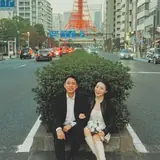
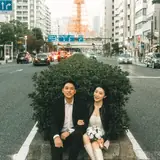
fix(atlas): revert 7 mis-added travel Tokyo shots; apply edited Tokyo wedding photos instead
- revert images/2. Tokyo Tokyo_25-31 (travel-tokyo back to 20, total 164)
- wedding-tokyo: replace WS_Tokyo_01/04/05/06 with edited webp (DSC02229/02230/02270/02436)
- wedding-tokyo: add WS_Tokyo_08/09/10 (DSC02240/02308/02400) - 10 photos
- wedding-tokyo representative -> WS_Tokyo_05.webp; atlas-data.js?v=20261117-v10

diff --git a/tests/atlas-browser.js b/tests/atlas-browser.js
@@ -47,12 +47,12 @@ async function run() {
       check(win.scrollY === 0, 'no initial automatic page scroll');
       const inactive = data.inactiveGroups || [];
       const active = data.collections.filter(c => !inactive.includes(c.group));
-      check(data.collections.length === 11 && data.collections.reduce((a,c) => a+c.photos.length,0) === 168 && inactive.join() === 'details', 'data keeps all 11 collections / 168 photos; The Details parked via inactiveGroups');
-      check(active.length === 10 && active.reduce((a,c) => a+c.photos.length,0) === 165, '10 active collections / 165 photos');
+      check(data.collections.length === 11 && data.collections.reduce((a,c) => a+c.photos.length,0) === 164 && inactive.join() === 'details', 'data keeps all 11 collections / 164 photos; The Details parked via inactiveGroups');
+      check(active.length === 10 && active.reduce((a,c) => a+c.photos.length,0) === 161, '10 active collections / 161 photos');
       const wTokyo=active.find(c=>c.id==='wedding-tokyo')?.map, tTokyo=active.find(c=>c.id==='travel-tokyo')?.map, karu=active.find(c=>c.id==='travel-karuizawa')?.map;
       check(wTokyo?.y===22 && tTokyo?.y===22 && karu?.x===68 && karu?.y===41 && karu.y>tTokyo.y, 'Tokyo raised and Karuizawa moved just below Tokyo');
       check(!el('collection-total') && !el('photo-total') && !el('wedding-total') && !doc().querySelector('.atlas-hero-aside'), 'Atlas removes ornamental count UI without dropping collections');
-      check(['wedding','travel'].map(g=>active.filter(c=>c.group===g).reduce((a,c)=>a+c.photos.length,0)).join() === '43,122', 'group counts 43 / 122');
+      check(['wedding','travel'].map(g=>active.filter(c=>c.group===g).reduce((a,c)=>a+c.photos.length,0)).join() === '46,115', 'group counts 46 / 115');
       check(!el('details-link') && !doc().querySelector('[data-collection="details"]') && doc().querySelectorAll('.atlas-index-group').length === 2, 'The Details removed from map link, Index and viewer');
       check(doc().querySelector('#atlas-page-title').textContent === 'The Atlas.' && doc().querySelector('.atlas-toolbar h2').textContent === 'Choose a Place', 'titles: The Atlas. / Choose a Place');
       check(doc().querySelector('.atlas-toolbar-heading .atlas-map-guide')?.textContent === '지도 위 위치를 선택해 사진을 살펴보세요.', 'guide sits under Choose a Place');
@@ -159,7 +159,7 @@ async function run() {
       img.src='../'+path.split('/').map(encodeURIComponent).join('/');
       try {await img.decode();} catch {decodeFailures.push(path);}
     }));
-    assert(!decodeFailures.length, `168 originals decode in Chromium: ${decodeFailures.length ? decodeFailures.join(', ') : 'all passed'}`);
+    assert(!decodeFailures.length, `164 originals decode in Chromium: ${decodeFailures.length ? decodeFailures.join(', ') : 'all passed'}`);
   } catch(error) { assert(false,error.stack); }
   status.textContent = `Complete: ${pass} passed, ${fail} failed`;
   output.textContent += '\n'+status.textContent;

diff --git a/atlas-data.js b/atlas-data.js
@@ -267,9 +267,9 @@ window.ATLAS_DATA = {
       "filePrefix": "WS_Tokyo",
       "photos": [
         {
-          "file": "WS_Tokyo_01.jpg",
-          "width": 1017,
-          "height": 1527
+          "file": "WS_Tokyo_01.webp",
+          "width": 1006,
+          "height": 1536
         },
         {
           "file": "WS_Tokyo_02.jpg",
@@ -282,27 +282,42 @@ window.ATLAS_DATA = {
           "height": 1920
         },
         {
-          "file": "WS_Tokyo_04.jpg",
-          "width": 1281,
-          "height": 1920
+          "file": "WS_Tokyo_04.webp",
+          "width": 1091,
+          "height": 1536
         },
         {
-          "file": "WS_Tokyo_05.jpg",
-          "width": 1044,
-          "height": 1568
+          "file": "WS_Tokyo_05.webp",
+          "width": 1024,
+          "height": 1536
         },
         {
-          "file": "WS_Tokyo_06.jpg",
-          "width": 1016,
-          "height": 1524
+          "file": "WS_Tokyo_06.webp",
+          "width": 1062,
+          "height": 1536
         },
         {
           "file": "WS_Tokyo_07.webp",
           "width": 1246,
           "height": 1600
+        },
+        {
+          "file": "WS_Tokyo_08.webp",
+          "width": 1063,
+          "height": 1536
+        },
+        {
+          "file": "WS_Tokyo_09.webp",
+          "width": 1059,
+          "height": 1536
+        },
+        {
+          "file": "WS_Tokyo_10.webp",
+          "width": 1033,
+          "height": 1536
         }
       ],
-      "representative": "WS_Tokyo_05.jpg",
+      "representative": "WS_Tokyo_05.webp",
       "location": {
         "latitude": 35.6762,
         "longitude": 139.6503
@@ -425,41 +440,6 @@ window.ATLAS_DATA = {
           "file": "Tokyo_24.jpg",
           "width": 1440,
           "height": 1920
-        },
-        {
-          "file": "Tokyo_25.webp",
-          "width": 1006,
-          "height": 1536
-        },
-        {
-          "file": "Tokyo_26.webp",
-          "width": 1091,
-          "height": 1536
-        },
-        {
-          "file": "Tokyo_27.webp",
-          "width": 1063,
-          "height": 1536
-        },
-        {
-          "file": "Tokyo_28.webp",
-          "width": 1024,
-          "height": 1536
-        },
-        {
-          "file": "Tokyo_29.webp",
-          "width": 1059,
-          "height": 1536
-        },
-        {
-          "file": "Tokyo_30.webp",
-          "width": 1033,
-          "height": 1536
-        },
-        {
-          "file": "Tokyo_31.webp",
-          "width": 1062,
-          "height": 1536
         }
       ],
       "representative": "Tokyo_01.jpg",

diff --git a/atlas.html b/atlas.html
@@ -96,7 +96,7 @@
     <button id="lightbox-next" class="atlas-lightbox-next" type="button" aria-label="다음 확대 사진">→</button>
     <span id="lightbox-count" class="atlas-lightbox-count"></span>
   </div>
-  <script src="./atlas-data.js?v=20261117-v9" defer></script>
+  <script src="./atlas-data.js?v=20261117-v10" defer></script>
   <script src="./atlas.js?v=20261112-v7" defer></script>
   <script src="./bgm.js?v=6" defer></script>
 </body>
